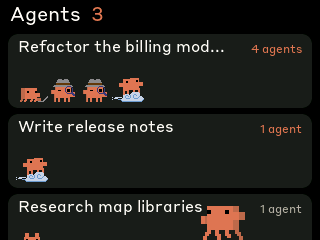
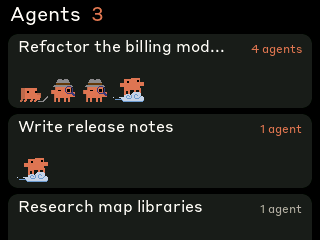
send_cmd waits for the restart a port open causes; cleaner colony images

diff --git a/core2/bridge/send_cmd.py b/core2/bridge/send_cmd.py
@@ -1,5 +1,8 @@
 #!/usr/bin/env python3
-"""Send serial commands to the Core2 and print its replies, without resetting it.
+"""Send serial commands to the Core2 and print its replies.
+
+Opening the serial port restarts the Core2 (its USB chip toggles the reset
+line), so this waits for it to start before sending.
 
     python3 send_cmd.py info
     python3 send_cmd.py "bootqr off"
@@ -30,10 +33,10 @@ def main():
     cmds = sys.argv[1:] or ["info"]
     s = serial.Serial()
     s.port, s.baudrate, s.timeout = find_port(), 115200, 0.2
-    s.dtr = False          # keep the reset line quiet: the device must not restart
+    s.dtr = False
     s.rts = False
     s.open()
-    time.sleep(0.3)
+    time.sleep(2.5)        # the port open restarts the device: let it boot
     s.reset_input_buffer()
     for c in cmds:
         s.write((c + "\n").encode())

diff --git a/SETUP.md b/SETUP.md
@@ -156,7 +156,8 @@ core2/bridge/pause.sh resume
 ```
 
 The device answers `{"bootqr":false,"available":true}`. `bootqr on` brings it back,
-`bootqr show` shows it once, right now.
+`bootqr show` shows it once, right now. (The device restarts once when the command tool opens
+the serial port. That is normal.)
 
 **For good, at build time:** in `firmware/platformio.ini`, in the `[env:m5stack_core2]` block,
 delete the two lines `-DLV_USE_QRCODE=1` and `-DCLAWD_REPO_URL=...` (or add `-DCLAWD_BOOT_QR=0`),
